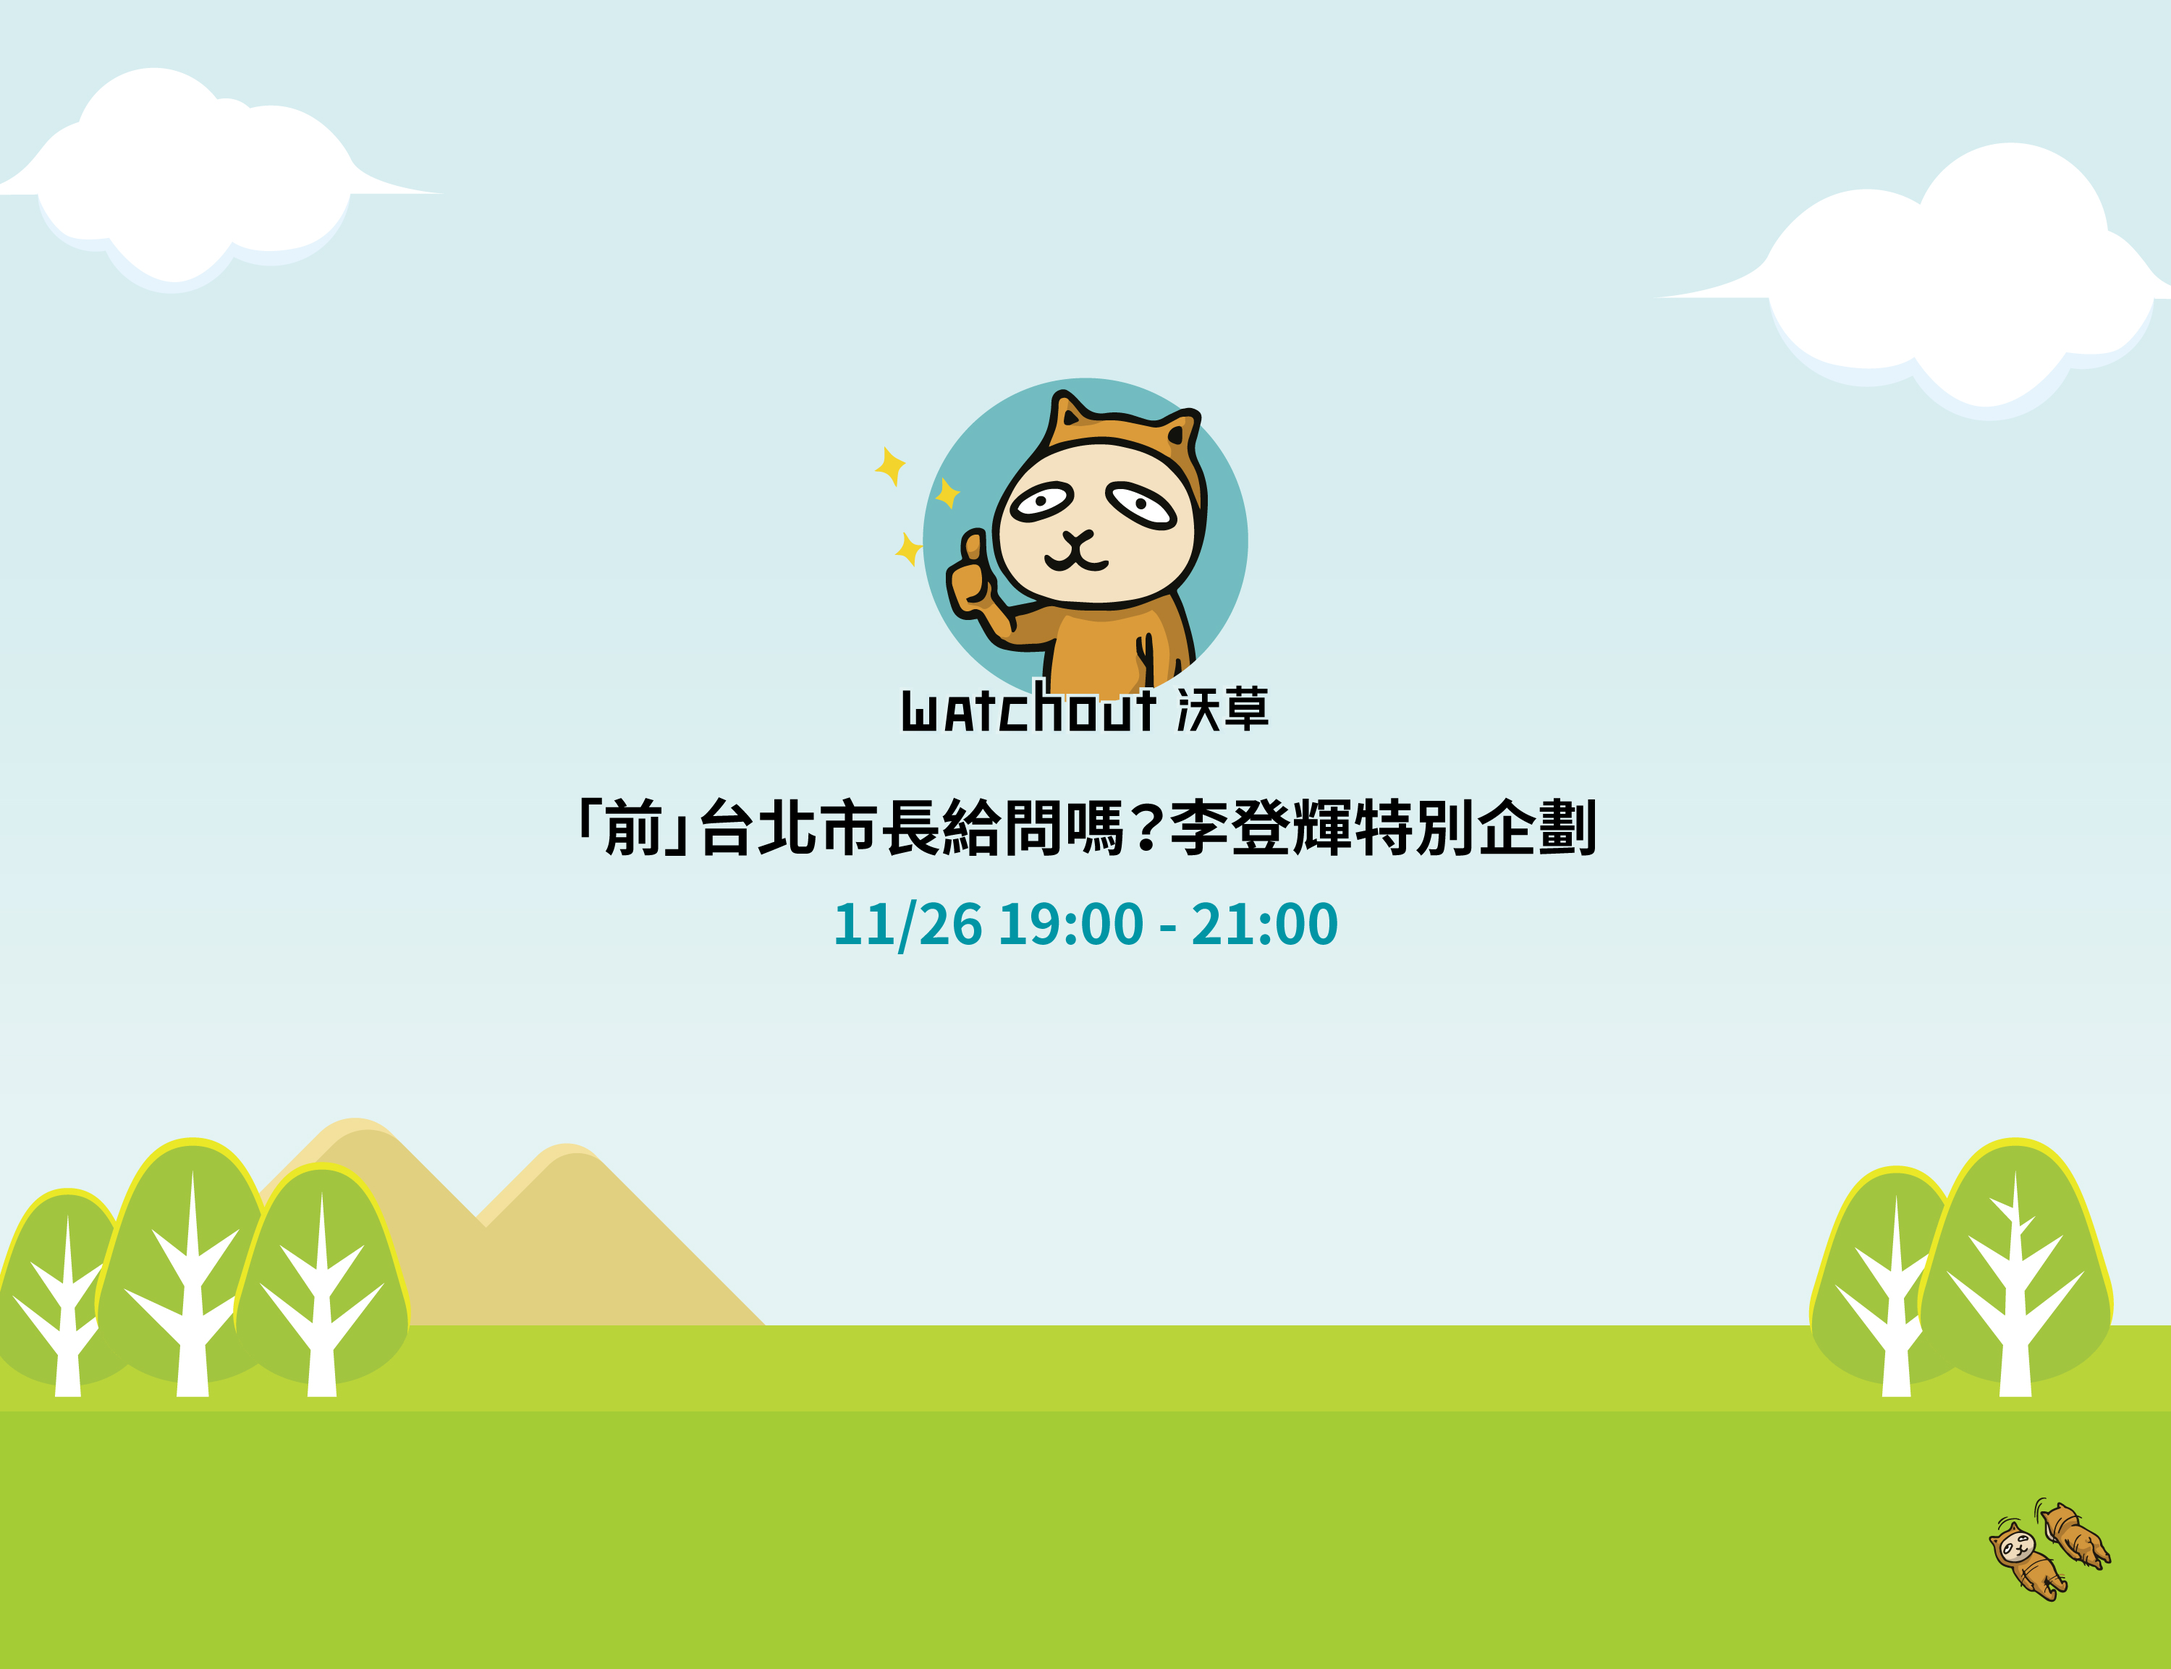
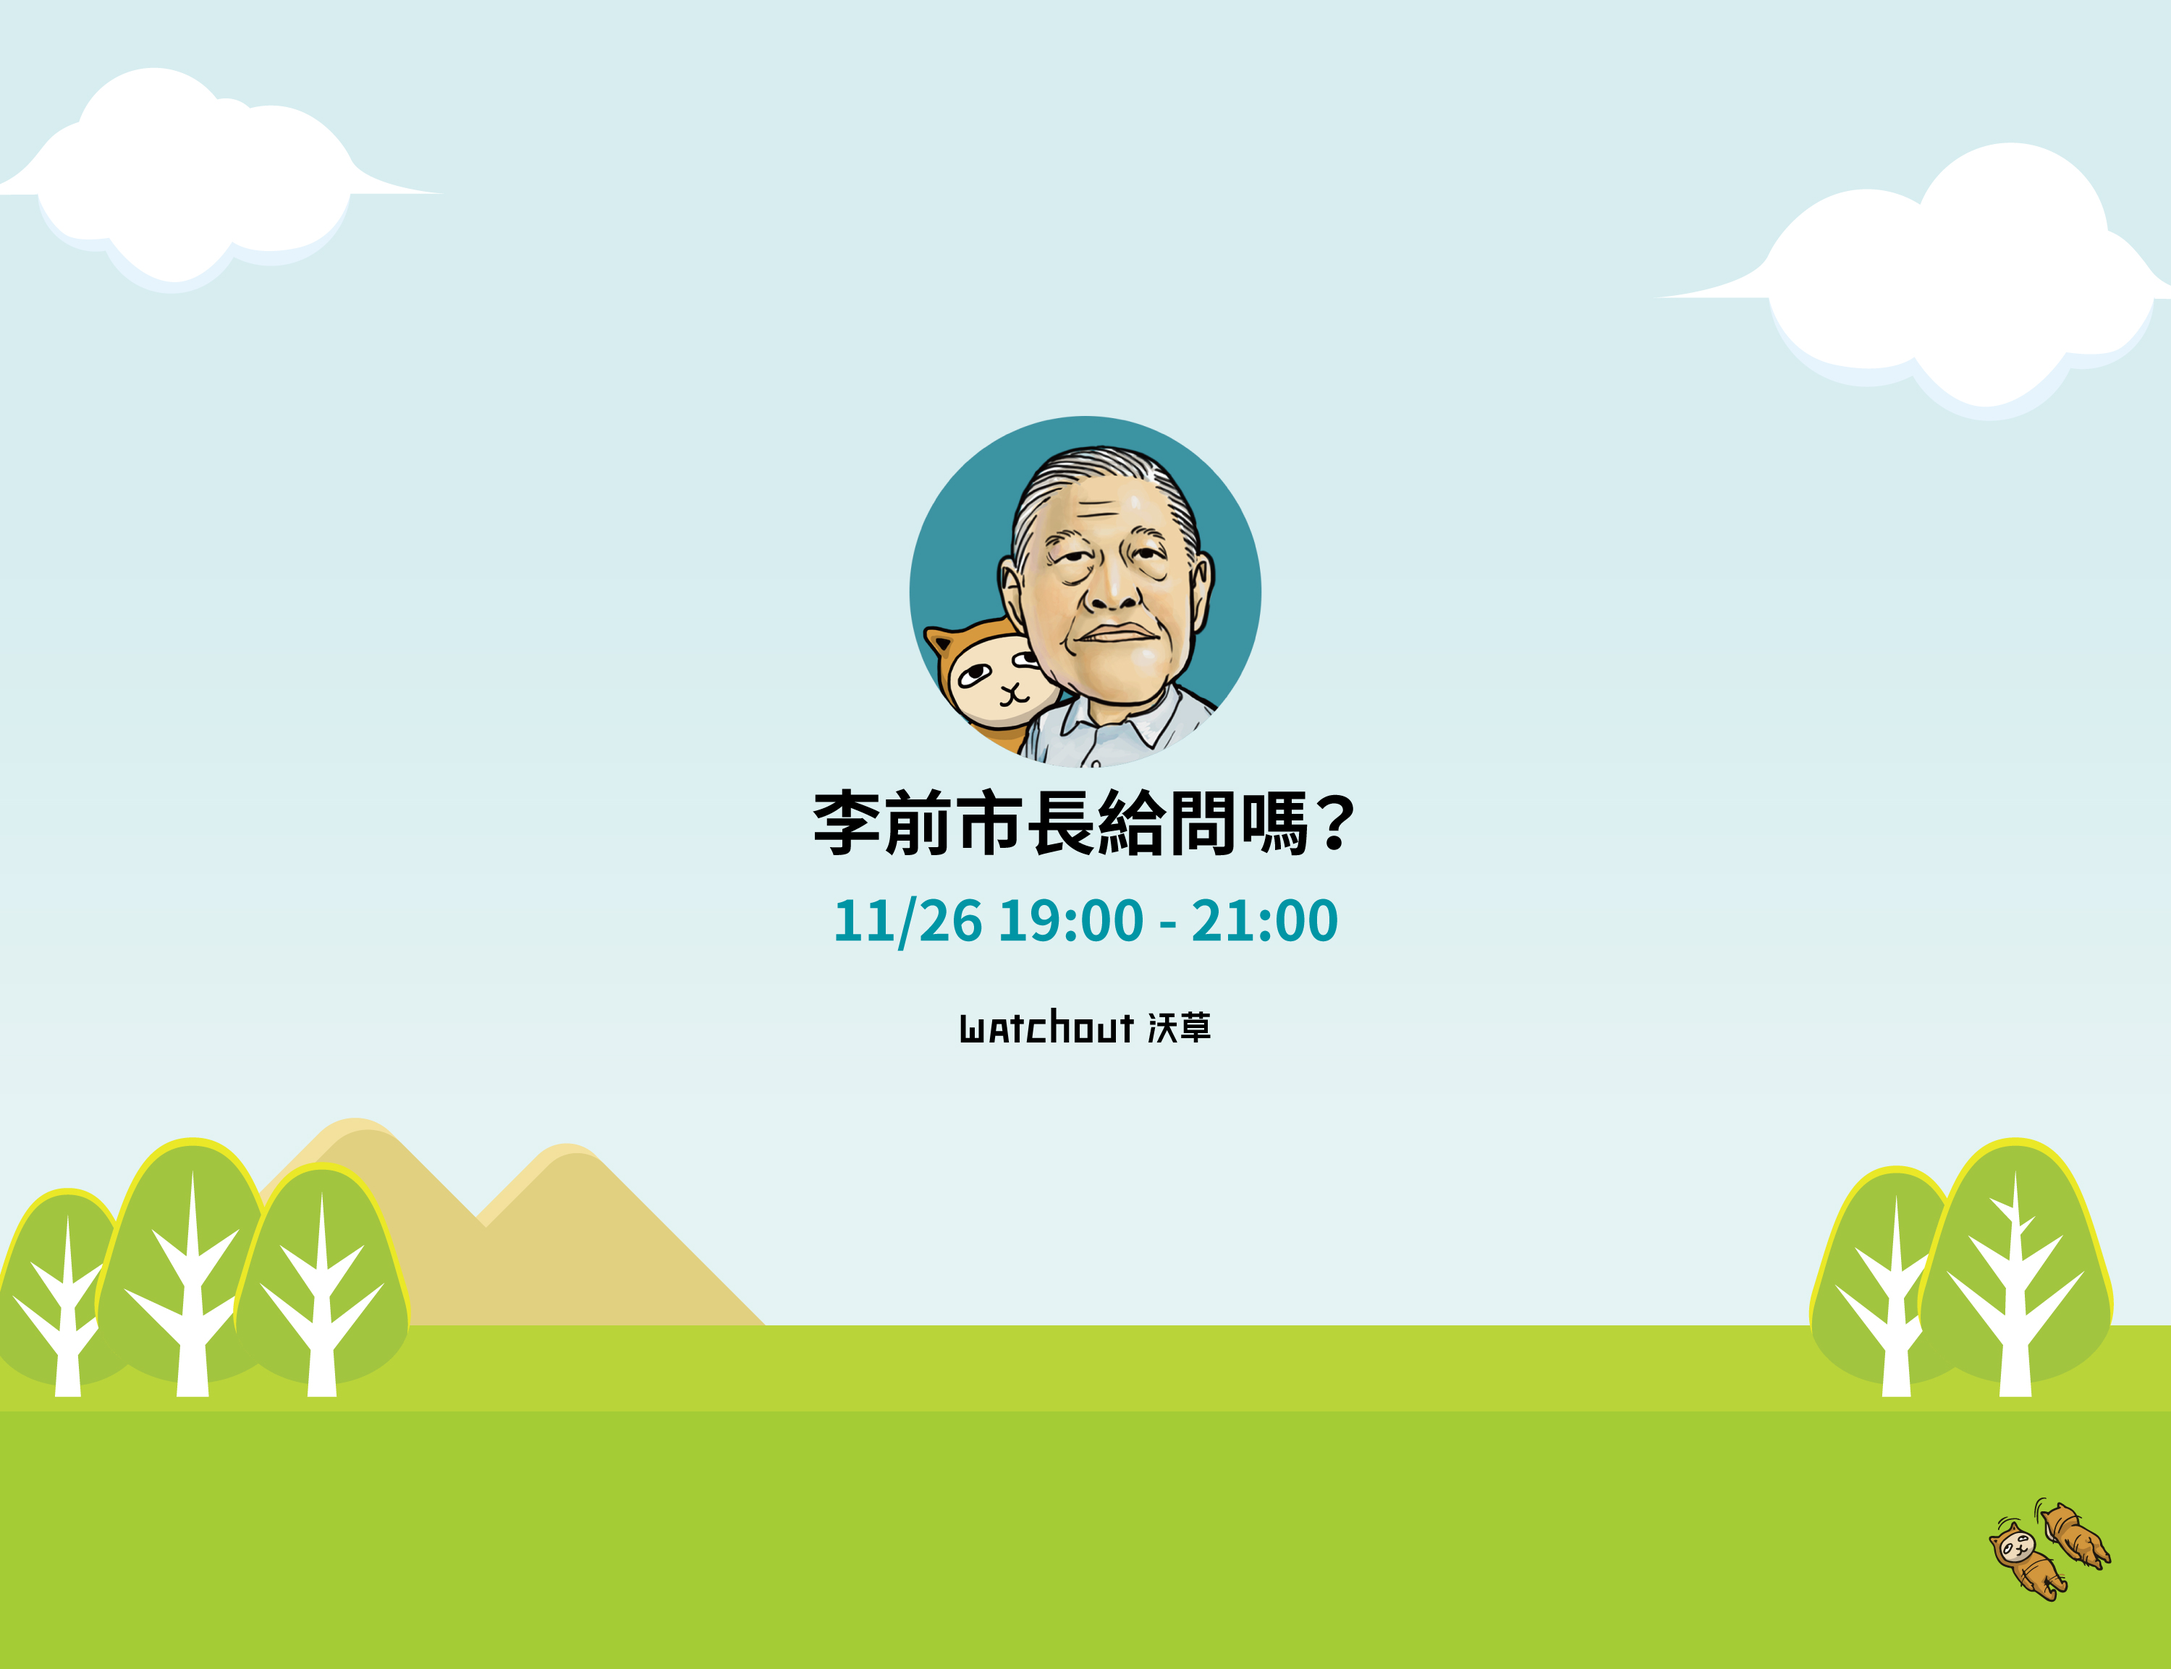
change to new pics. set deadline. set url in terms

Changed region(s): [[0.248, 0.2185, 0.744, 0.5618], [0.434, 0.593, 0.558, 0.6242]]

diff --git a/src/pages/TermsPage.js b/src/pages/TermsPage.js
@@ -31,7 +31,7 @@ module.exports = React.createClass({
                    <h1>使用條款</h1>
                 </div>
                 <h4>1. 認知與接受條款</h4>
-                <p>沃草有限公司係依據本服務條款提供「市長給問嗎！最後一役」（http://2014final.wethepeople.tw）網站 （以下簡稱「本服務」）。當您使用本服務時，即表示您已閱讀、瞭解並同意接受本約定書之所有內容。沃草有限公司有權於任何時間修改或變更本約定書之內容，建議您隨時注意該等修改或變更。您於任何修改或變更後繼續使用本服務，視為您已閱讀、瞭解並同意接受該等修改或變更。如果您不同意本約定書的內容，或者您所屬的國家或地域排除本約定書內容之全部或一部時，您應立即停止使用本服務。</p>
+                <p>沃草有限公司係依據本服務條款提供「市長給問嗎！最後一役」（http://lee.wethepeople.tw）網站 （以下簡稱「本服務」）。當您使用本服務時，即表示您已閱讀、瞭解並同意接受本約定書之所有內容。沃草有限公司有權於任何時間修改或變更本約定書之內容，建議您隨時注意該等修改或變更。您於任何修改或變更後繼續使用本服務，視為您已閱讀、瞭解並同意接受該等修改或變更。如果您不同意本約定書的內容，或者您所屬的國家或地域排除本約定書內容之全部或一部時，您應立即停止使用本服務。</p>
 
                 <p>若您為未滿二十歲，除應符合上述規定外，並應於您的家長（或監護人）閱讀、瞭解並同意本約定書之所有內容及其後修改變更後，方得使用或繼續使用本服務。當您使用或繼續使用本服務，即表示您的家長（或監護人）已閱讀、瞭解並同意接受本約定書之所有內容及其後修改變更。</p>
 

diff --git a/src/components/Footer.js b/src/components/Footer.js
@@ -26,9 +26,7 @@ module.exports = React.createClass({
       </div>
       <div className="footer_logo">
       <ul>
-          <li className="footer_img"><a href="http://goo.gl/2vlnVR" target="_new"><img id="footer_apple" src="/assets/images/apple_logo.png" /></a></li>
-          <li className="footer_img"><a href="http://goo.gl/du71aO" target="_new"><img id="footer_watchout" src="/assets/images/watchout_logo_black.png" /></a></li>
-          <li className="footer_img"><a href="http://goo.gl/LB3KC9" target="_new"><img src="/assets/images/google_logo_color.png" /></a></li>
+          <li className="footer_img"><a href="http://goo.gl/L3SXn4" target="_new"><img id="footer_watchout" src="/assets/images/watchout_logo_black.png" /></a></li>
       </ul>
       </div>
     </div>;

diff --git a/src/pages/IndexPage.js b/src/pages/IndexPage.js
@@ -23,7 +23,7 @@ module.exports = React.createClass({
     var result = candidates.map((c) => {
       return <Link key={c.id} to="policies" params={{candidateId: c.id}}>
         <div className='index_c_item md-whiteframe-z1'>
-            <img src={c.avatar} />
+            <img className='index_c_item_img' src={c.avatar} />
             <div className="index_c_item_name">開始發問</div>
         </div>
       </Link>

diff --git a/client/styles/style.css b/client/styles/style.css
@@ -89,6 +89,7 @@ hr {
 .footer_logo {
   width: 100%;
   text-align: center;
+  padding-bottom: 50px;
 }
 .footer_text {
   display: inline-block;
@@ -980,10 +981,12 @@ a.nav_item_sidebar:hover {
   padding-left: 100px;
 
 }
-.index_c_item img {
+.index_c_item_img {
   position: absolute;
   left: 0px;
   top: 0px;
+  width: 100px;
+  height: 112px;
 }
 .index_c_item_name {
   font-size: 30px;

diff --git a/server/api/api.js b/server/api/api.js
@@ -43,7 +43,7 @@ passport.use(new FacebookStrategy({
 
 
 var allClosedAt = {
-  '1': { closedAt: new Date('2014','10','23','23','59','59').getTime() }
+  '1': { closedAt: new Date('2014','10','24','07','59','59').getTime() }
 };
 
 function filterSignatures(questions) {
